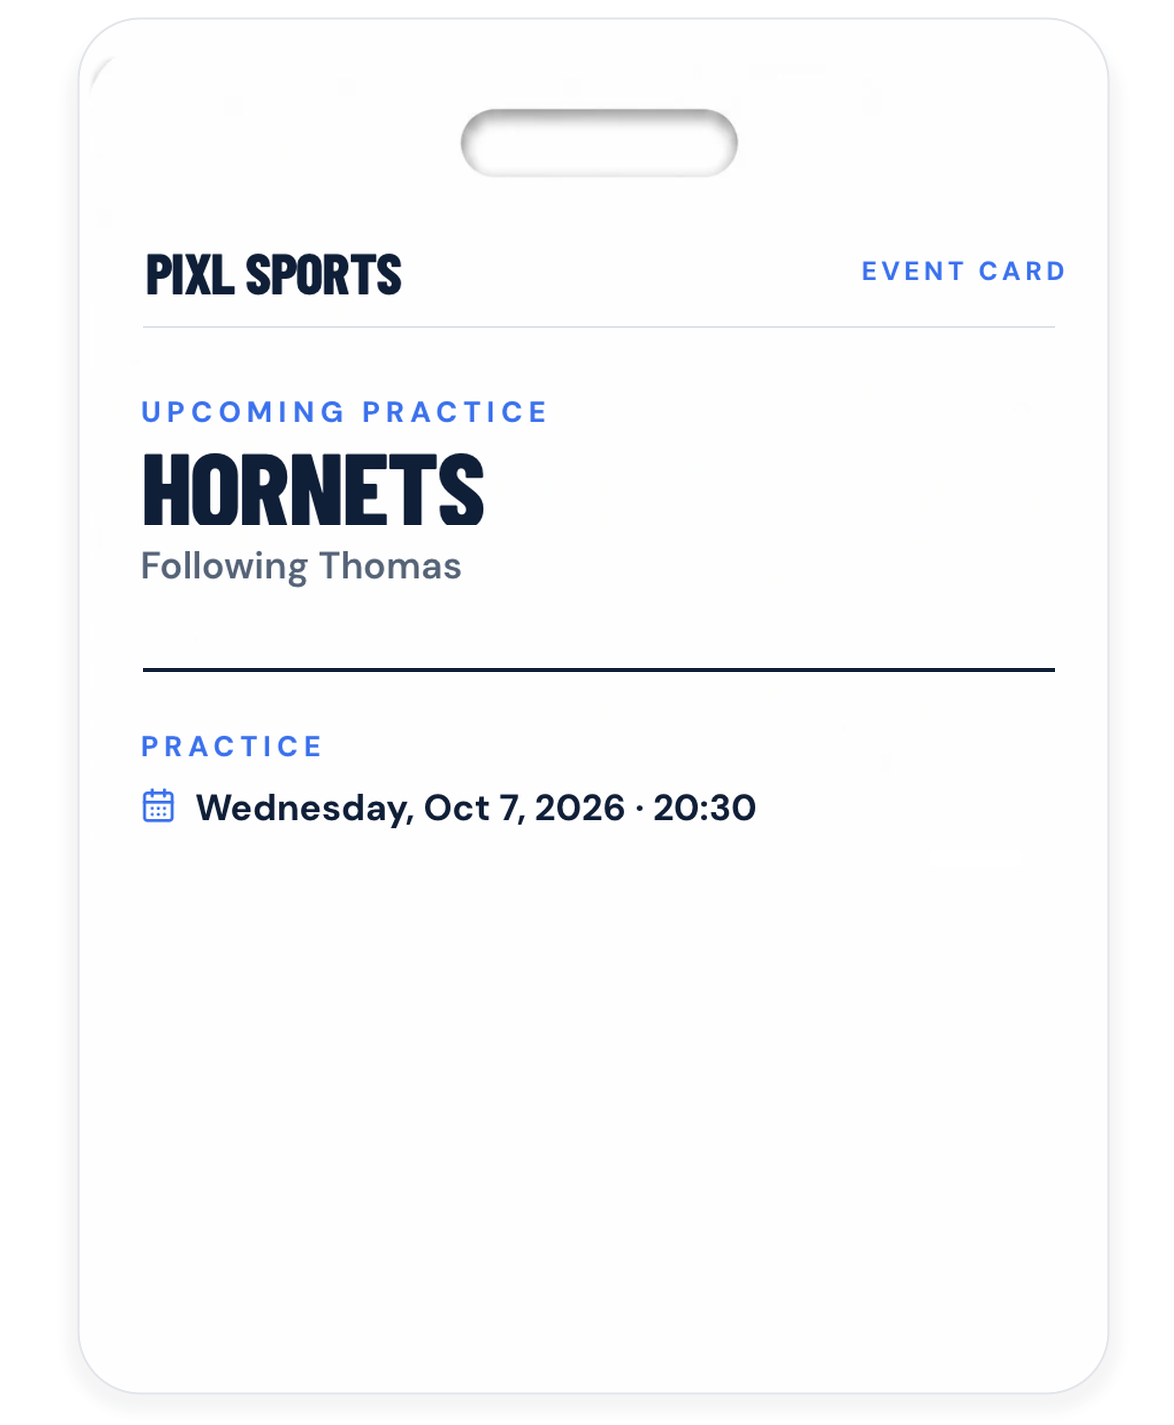
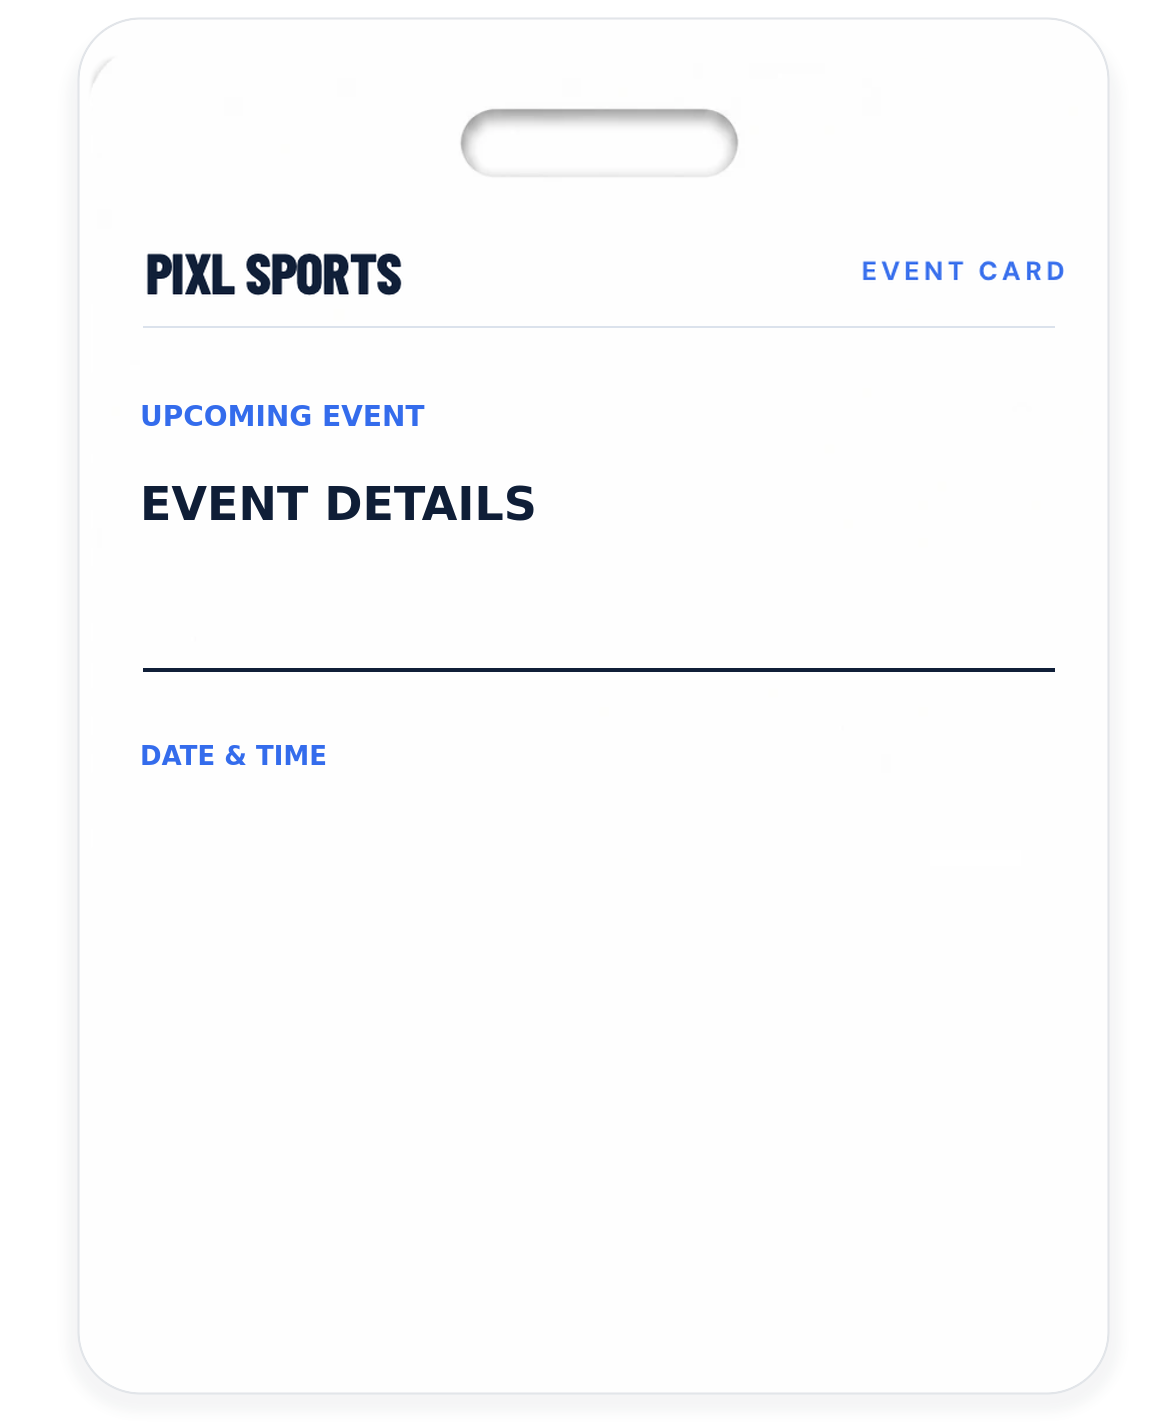
Use generic Event Card artwork on supporter dashboards
Replit-Task-Id: f21fa0f5-0169-444a-8b7c-3ecbc449f2fa
Replit-Merge-Attempt: MergeTask:f21fa0f5-0169-444a-8b7c-3ecbc449f2fa:1:a6527f2f

Changed region(s): [[0.1227, 0.2779, 0.46, 0.4323], [0.1227, 0.494, 0.644, 0.5867]]

diff --git a/artifacts/league-matrix-studio/src/features/supporter-dashboard.tsx b/artifacts/league-matrix-studio/src/features/supporter-dashboard.tsx
@@ -1026,6 +1026,16 @@ export function SupporterDashboardView({
         )}>
           <SupporterStatTrends games={completedLocalGames} profileSport={profile.sport ?? null} />
         </Suspense>
+        {upcomingEventCards.length > 0 && (
+          <div className="supporter-event-graphic supporter-event-graphic--desktop">
+            <img
+              className="supporter-event-graphic__image"
+              src={`${basePath}/assets/upcoming-event-card.png`}
+              alt=""
+              data-testid="img-upcoming-event-card-desktop"
+            />
+          </div>
+        )}
         {renderUpcomingEventsList('desktop')}
       </div>
     ) : (

diff --git a/artifacts/league-matrix-studio/src/features/supporter-game-on-summary.css b/artifacts/league-matrix-studio/src/features/supporter-game-on-summary.css
@@ -287,7 +287,26 @@
   display: flex;
   width: 100%;
   min-width: 0;
+  height: 196px;
+  max-height: 196px;
   min-height: 196px;
+  overflow: hidden;
+  align-items: stretch;
+  gap: 8px;
+}
+
+.supporter-stat-trends-stage > .supporter-stat-trends {
+  flex: 1 1 0;
+}
+
+.supporter-event-graphic--desktop {
+  width: min(160px, 42%);
+  flex: 0 0 auto;
+  align-self: center;
+}
+
+.supporter-event-graphic--desktop .supporter-event-graphic__image {
+  max-height: 196px;
 }
 
 .supporter-stat-trends {
